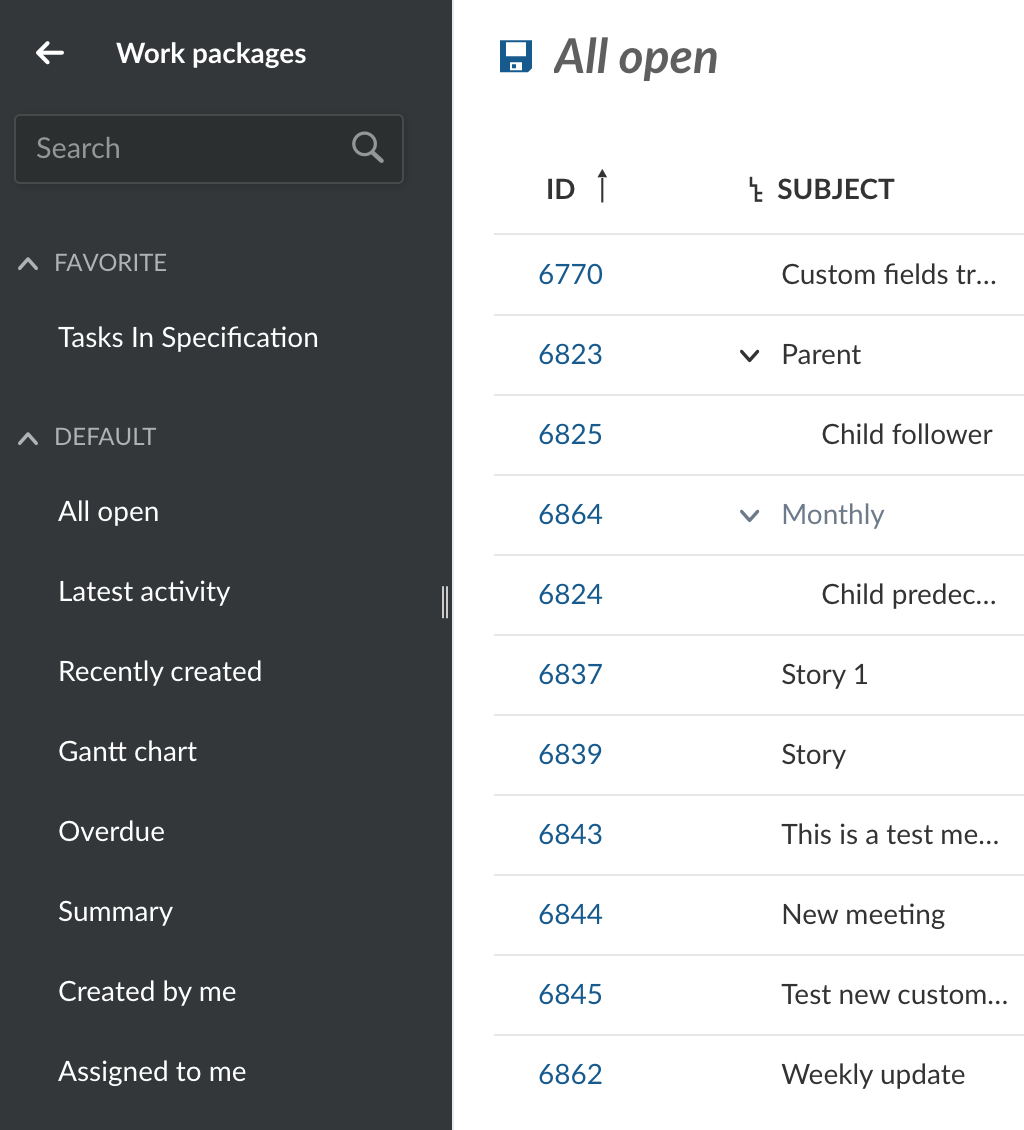
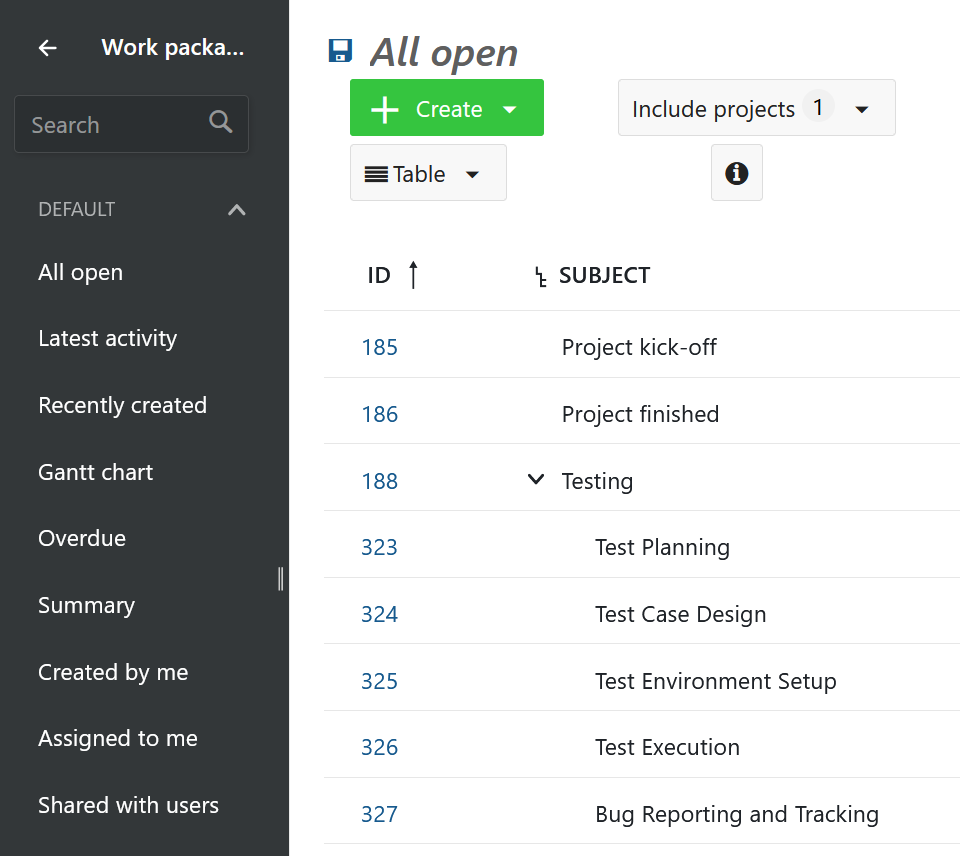
Adding documentation on "shared with users" default filter in work packages
Modified pages:
User Guide -> Work Packages -> Share work packages
User Guide -> Work Packages -> Work package views

diff --git a/docs/user-guide/work-packages/share-work-packages/README.md b/docs/user-guide/work-packages/share-work-packages/README.md
@@ -12,6 +12,8 @@ It is possible to share work packages with users that are not members of a proje
 
 > **Note**: Sharing work packages with non-member is an Enterprise add-on and can only be used with [Enterprise cloud](../../../enterprise-guide/enterprise-cloud-guide/) or  [Enterprise on-premises](../../../enterprise-guide/enterprise-on-premises-guide/). An upgrade from the free community edition is easy and helps support OpenProject.
 
+## Share a work package
+
 To share a work package with a project non-member select the detailed view of a work package and click the **Share** button.
 
 ![Share button in OpenProject work packages](openproject_user_guide_share_button_wp.png)
@@ -44,7 +46,7 @@ Following user roles are available as filters:
 
 ![Filter list of users by user role](openproject_user_guide_sharing_member_role_filter.png)
 
-**Note:** Please keep in mind that users listed after you have applied a filter may have additional permissions. For example if you select the **View** filter, it is possible that a user is listed, which has inherited additional role as part of user group with persmissions exceeding the viewing ones.
+**Note:** Please keep in mind that users listed after you have applied a filter may have additional permissions. For example if you select the **View** filter, it is possible that a user is listed, which has inherited additional role as part of user group with permissions exceeding the viewing ones.
 
 You can search for a user or a group via a user name, group name or an email address. You can either select an existing user from the dropdown menu or enter an email address for an entirely new user, who will receive an invitation to create an account on your instance. 
 
@@ -60,4 +62,12 @@ You can always adjust the viewing rights of a user by selecting an option from t
 
 ![](openproject_user_guide_shared_with_list_change_role.png)
 
+## Remove sharing privileges
+
 You can also remove the user from the list by clicking on **Remove** next to the user name. Please not that this will not remove a user entirely, but only revoke the viewing and/or editing rights for the work package. User account will remain intact. If you need to [delete a user](../../../system-admin-guide/users-permissions/users/#delete-users), please do that in system administration or contact your administrator.
+
+## Shared work packages overview
+
+For an overview of all work packages that have been shared within a specific project navigate to that project, select the module **Work Packages** and choose the filter **Shared with users** from the list of default work package filters on the left side. You can then decide if you or a project administrator needs to change or remove sharing options. You can also [adjust this filter](./work-package-table-configuration/#filter-work-packages) and save it under your private work package filters.
+
+![Filter for work packages shared with other users in OpenProject](openproject_user_guide_shared_with_users_filter.png)

diff --git a/docs/user-guide/work-packages/work-package-views/README.md b/docs/user-guide/work-packages/work-package-views/README.md
@@ -20,6 +20,7 @@ A list of work packages is considered a view. Each view is based on a set of fil
 - **Summary**: Table overview of the number of work packages grouped by type, status, priority, assignee, accountable, author, version, category and subproject
 - **Created by me**: All work packages created by you (the current user) in descending order of last updated date (latest on top)
 - **Assigned to me**: All work packages that are assigned to you in descending order of last updated date (latest on top)
+- **Shared with users**: All work packages that have been [shared with users or groups](./share-work-packages/) (including the current user and/or external users or groups)
 
 You can also create, save and modify your own work package views. Read about [work package table configuration](../work-package-table-configuration/#save-work-package-views) to learn how.
 
